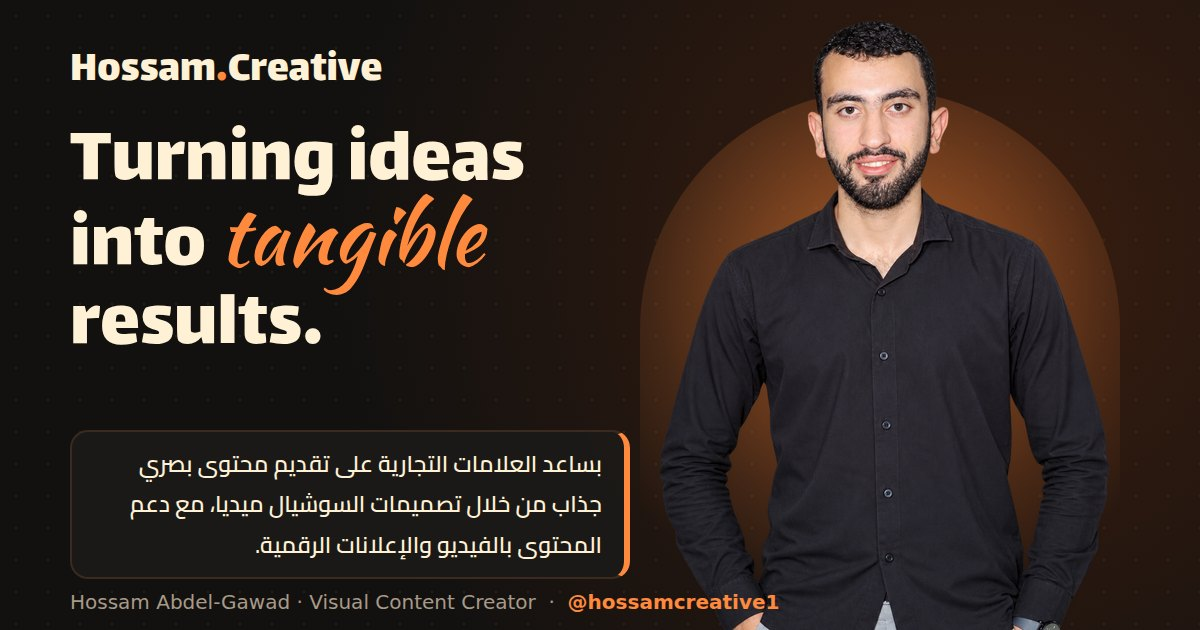
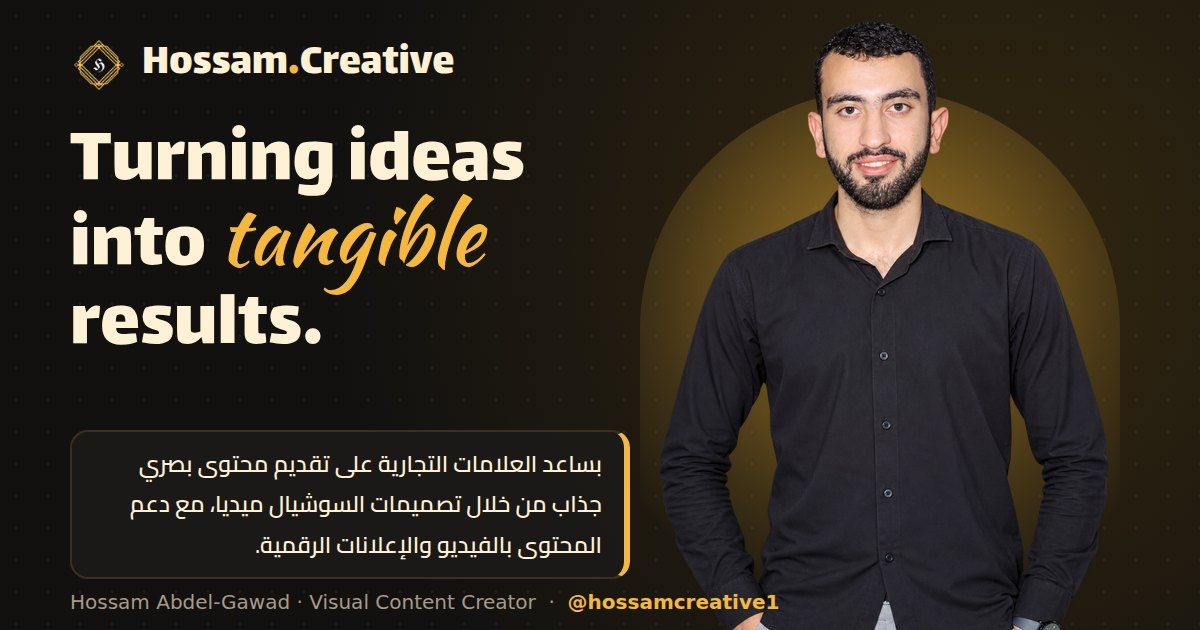
Add files via upload

diff --git a/style.css b/style.css
@@ -177,7 +177,7 @@ section{padding:72px 0}
 /* ── Hero portrait ── */
 .tagrow{display:flex;align-items:center;gap:12px;margin-bottom:22px}
 .tagrow .tag{margin-bottom:0}
-.avatar{width:54px;height:54px;border-radius:50%;object-fit:cover;flex:none;border:2px solid var(--border);background:radial-gradient(circle at 50% 40%,#ff8a3d,#2a170d)}
+.avatar{width:54px;height:54px;border-radius:50%;object-fit:cover;flex:none;border:2px solid var(--border);background:radial-gradient(circle at 50% 40%,#f5b83d,#2a170d)}
 .hero-photo{display:none}
 @media(min-width:900px){
   .hero{padding-bottom:0}
